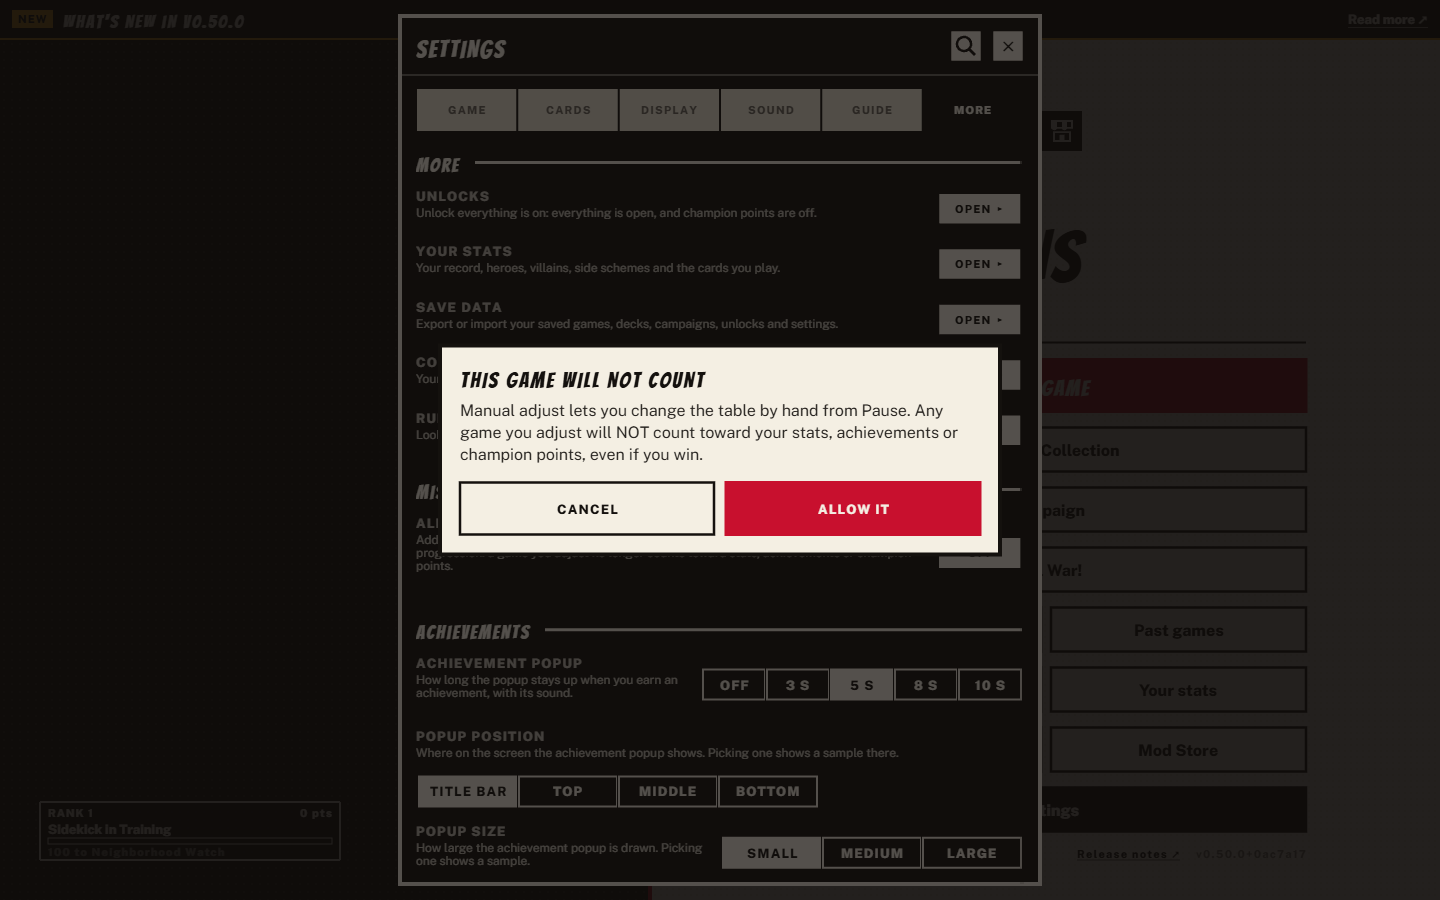
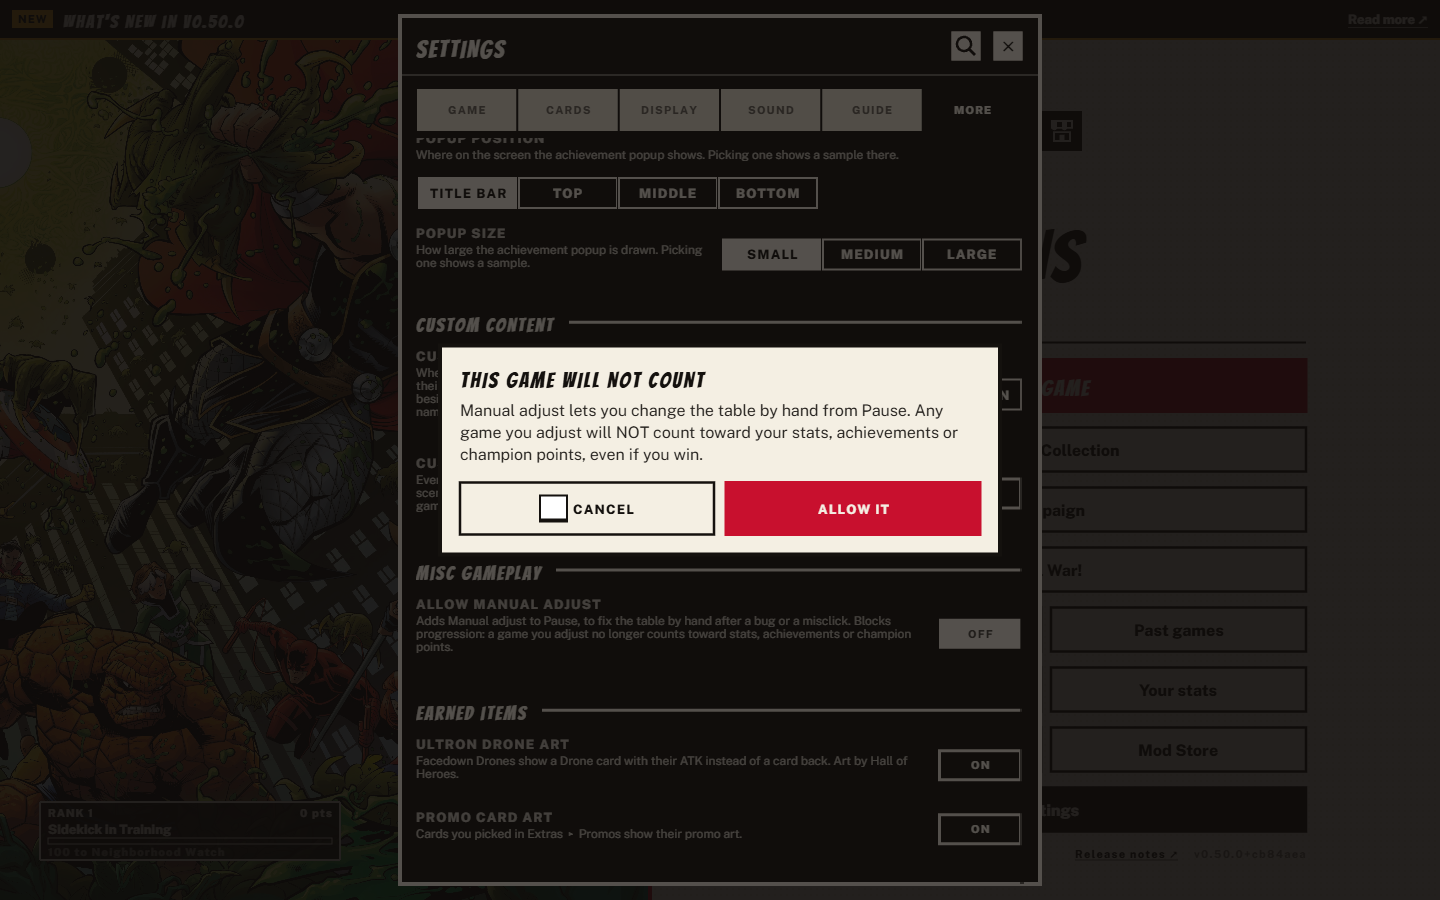
Misc gameplay sits under Custom content on More; wave 7 deck builder spec reads the Setup group

diff --git a/packages/client/src/view/settings-sections.ts b/packages/client/src/view/settings-sections.ts
@@ -204,14 +204,14 @@ export function settingsSectionsOf(input: {
         "rules",
       ],
     },
-    // Rules escapes the owner wants out of the way (2026-11-19): off by default, each warning before it turns on.
-    { id: "misc", title: "Misc gameplay", items: ["manual-adjust"] },
     {
       id: "achievements",
       title: "Achievements",
       items: ["achievement-popup-time", "achievement-popup-place", "achievement-popup-size"],
     },
     { id: "custom", title: "Custom content", items: ["custom-placement", "custom-unlocked"] },
+    // Rules escapes the owner wants out of the way (2026-11-19): off by default, each warning before it turns on.
+    { id: "misc", title: "Misc gameplay", items: ["manual-adjust"] },
     { id: "earned", title: "Earned items", items: EARNED_ITEMS.map((item) => item.id) },
   ];
 }
@@ -235,7 +235,7 @@ const TAB_SECTIONS: readonly {
   { id: "display", label: "Display", sections: ["window", "screen", "motion"] },
   { id: "sound", label: "Sound", sections: ["sound"] },
   { id: "guide", label: "Guide", sections: ["guide"] },
-  { id: "more", label: "More", sections: ["more", "misc", "achievements", "custom", "earned"] },
+  { id: "more", label: "More", sections: ["more", "achievements", "custom", "misc", "earned"] },
 ];
 
 /** The Settings panel's tabs (owner, 2026-10-16: one tab at a time instead of one long scroll), built from `settingsSectionsOf`'s sections. */

diff --git a/packages/client/e2e/wave7-deck-builder-rules.spec.ts b/packages/client/e2e/wave7-deck-builder-rules.spec.ts
@@ -142,7 +142,7 @@ test.describe("Flow 5: the wave 7 heroes' special starts", () => {
     test.setTimeout(300_000);
     await openDecks(page);
     await startNewDeck(page, "41001a");
-    expect(await texts(page, "DeckBuilder")).toEqual(expect.arrayContaining(["IDENTITY — PSYLOCKE", "HERO · 17"]));
+    expect(await texts(page, "DeckBuilder")).toEqual(expect.arrayContaining(["IDENTITY — PSYLOCKE", "SETUP · 2", "HERO · 15"]));
     expect(await deckPanel(page)).toEqual(expect.arrayContaining(["Psi-Knife", "2"]));
     await search(page, "Psi-Knife");
     // The text search ranks name matches first and also finds cards whose rules mention Psi-Knives.
@@ -191,7 +191,8 @@ test.describe("Flow 5: the wave 7 heroes' special starts", () => {
     test.setTimeout(250_000);
     await openDecks(page);
     await startNewDeck(page, "43001a");
-    expect(await texts(page, "DeckBuilder")).toContain("HERO · 16");
+    // The claws list in their own Setup group (#895); the set is still 16 cards.
+    expect(await texts(page, "DeckBuilder")).toEqual(expect.arrayContaining(["SETUP · 1", "HERO · 15"]));
     await press(page, "DeckBuilder", "aspect:aggression");
     await search(page, "Claws");
     expect((await poolIds(page))[0]).toBe("43002"); // rules text matches follow it (43005 mentions the claws)

diff --git a/packages/client/src/view/settings-sections.test.ts b/packages/client/src/view/settings-sections.test.ts
@@ -51,7 +51,7 @@ describe("settingsSectionsOf", () => {
     expect([...items].sort()).toEqual([...expected].sort());
   });
 
-  test("the sections read top to bottom: Gameplay, Cards left, Villain phase, Cards, Animation and display, Sound, Guide, More, Misc gameplay, Achievements, Custom content, Earned items", () => {
+  test("the sections read top to bottom: Gameplay, Cards left, Villain phase, Cards, Animation and display, Sound, Guide, More, Achievements, Custom content, Misc gameplay, Earned items", () => {
     expect(settingsSectionsOf({ guideRowIds, cardHover: true }).map((s) => s.title)).toEqual([
       "Gameplay",
       "Cards left",
@@ -61,9 +61,9 @@ describe("settingsSectionsOf", () => {
       "Sound",
       "Guide",
       "More",
-      "Misc gameplay",
       "Achievements",
       "Custom content",
+      "Misc gameplay",
       "Earned items",
     ]);
   });
@@ -72,9 +72,9 @@ describe("settingsSectionsOf", () => {
     const more = settingsTabsOf({ guideRowIds, cardHover: true }).find((tab) => tab.id === "more")!;
     expect(more.sections.map((s) => s.title)).toEqual([
       "More",
-      "Misc gameplay",
       "Achievements",
       "Custom content",
+      "Misc gameplay",
       "Earned items",
     ]);
     expect(more.sections[4]!.items).toContain("ultron-drone-art");
